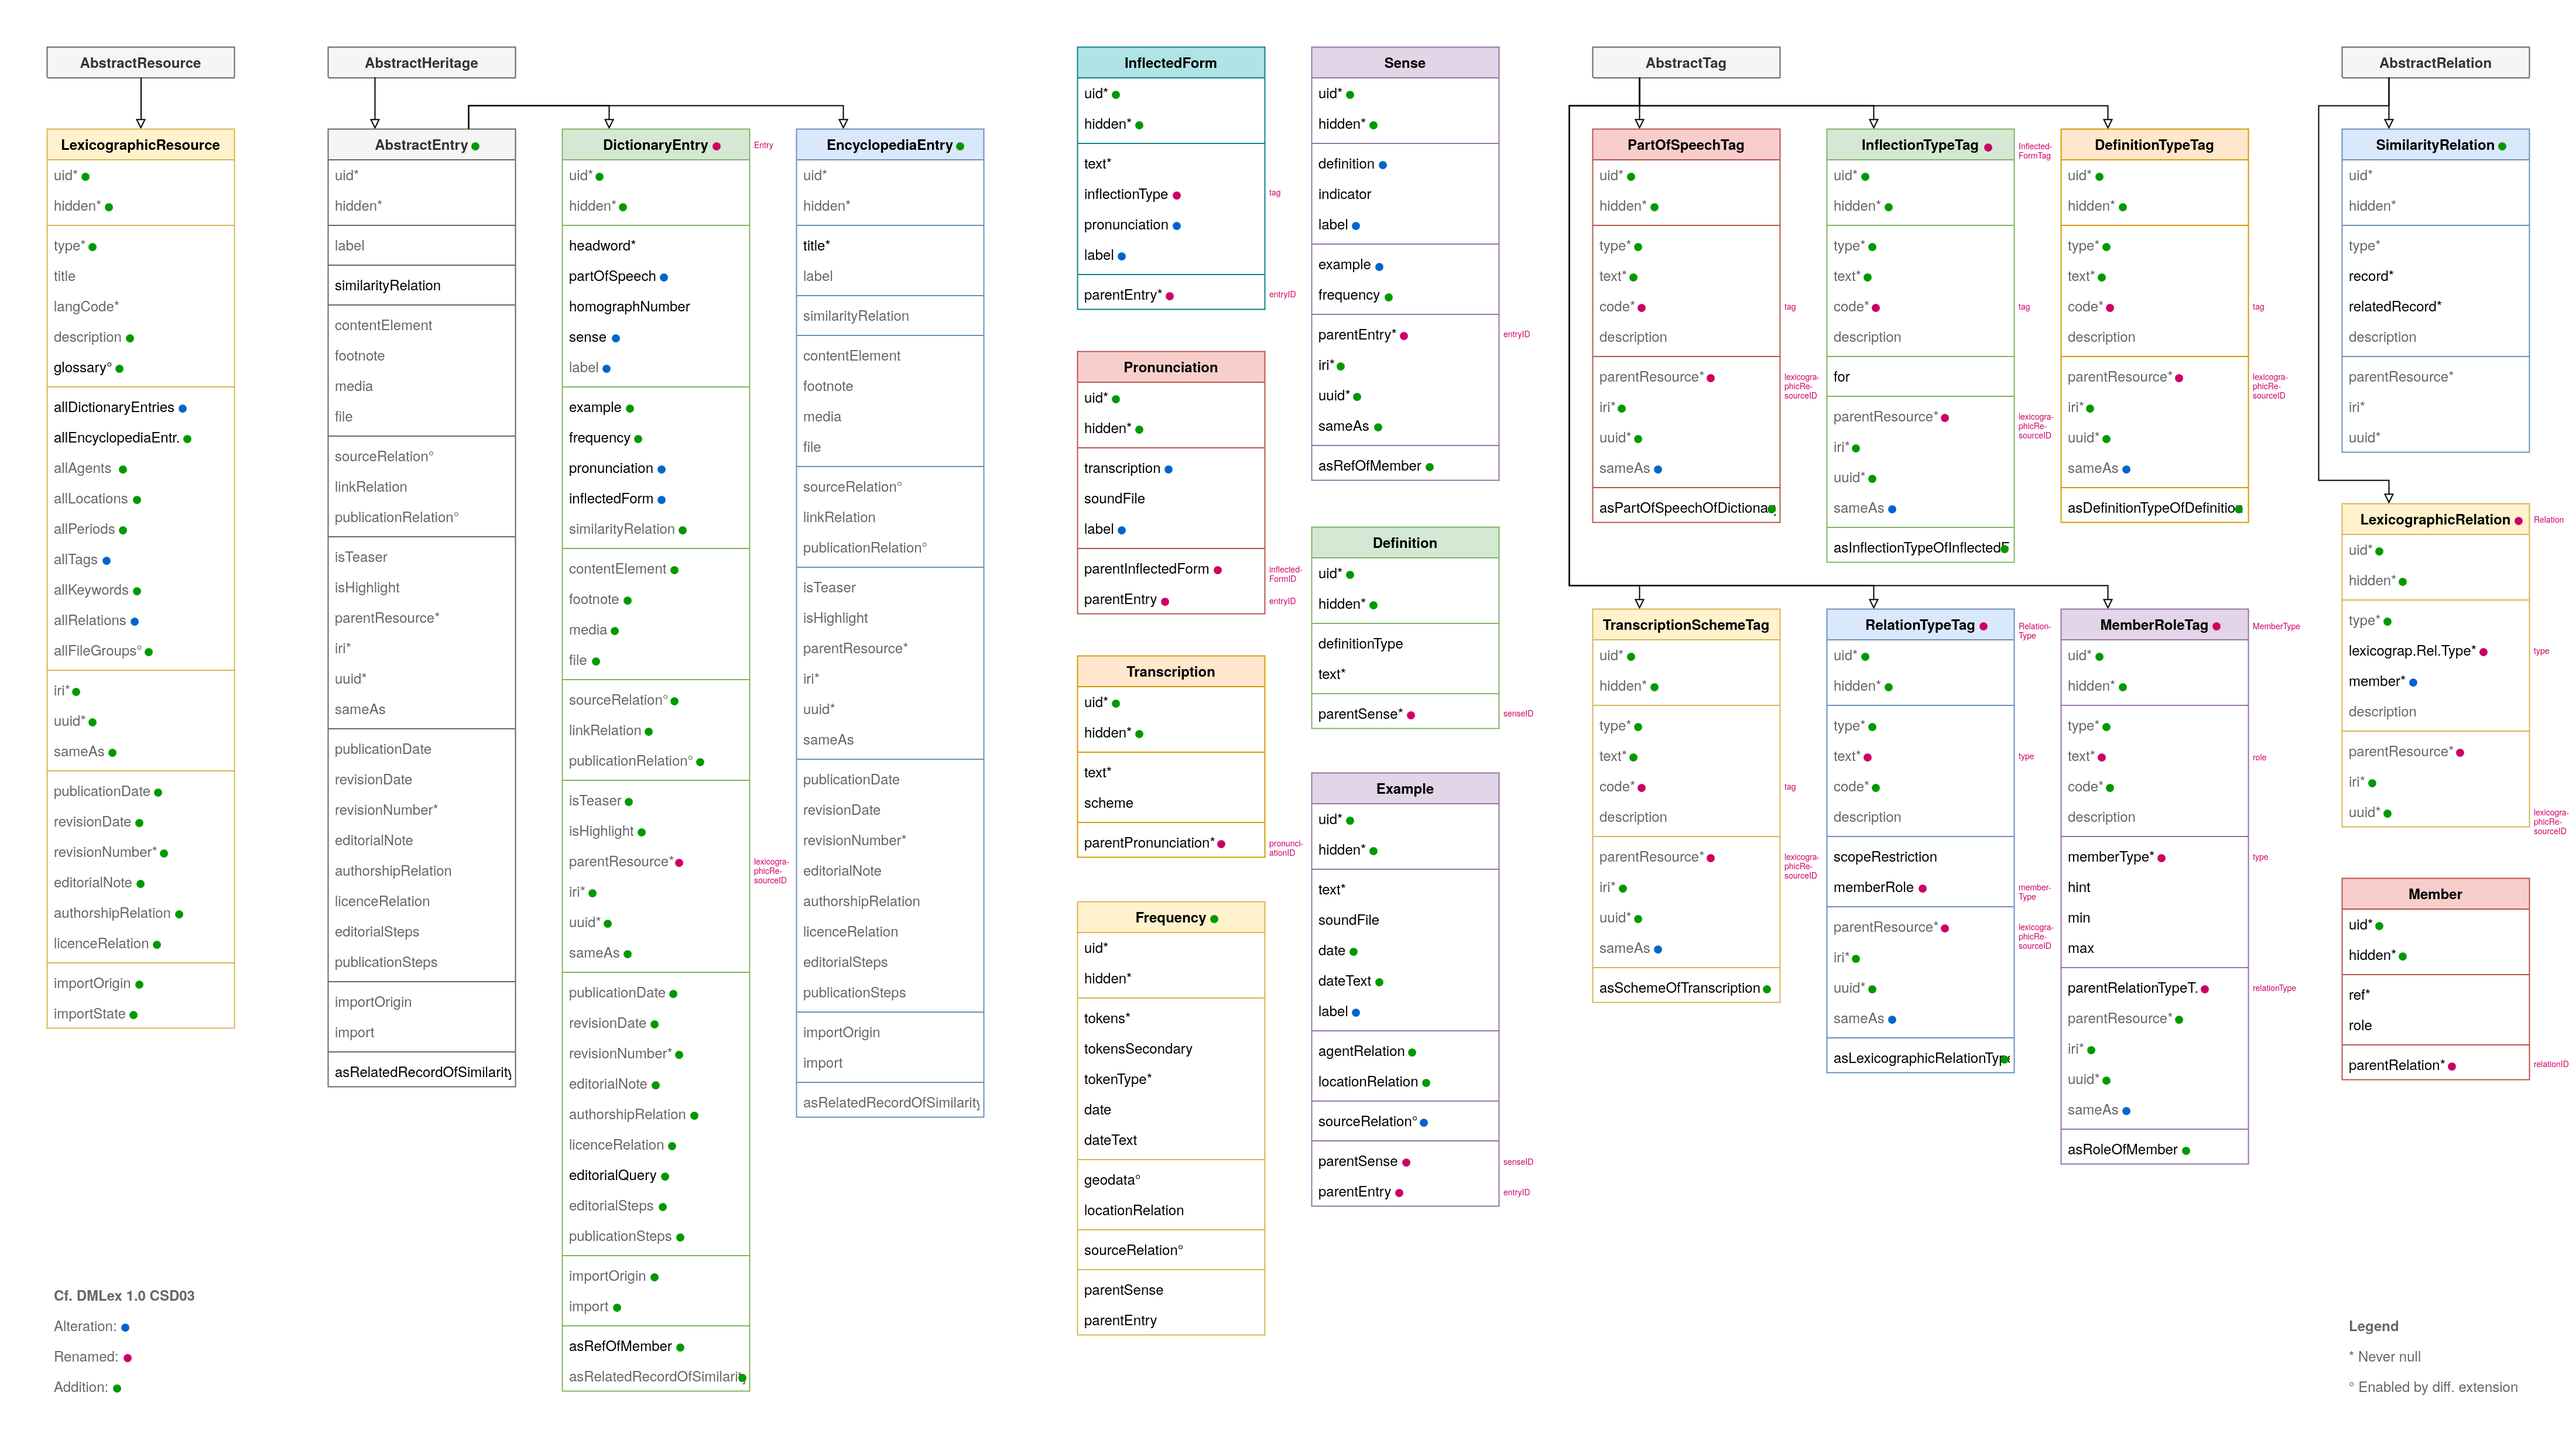
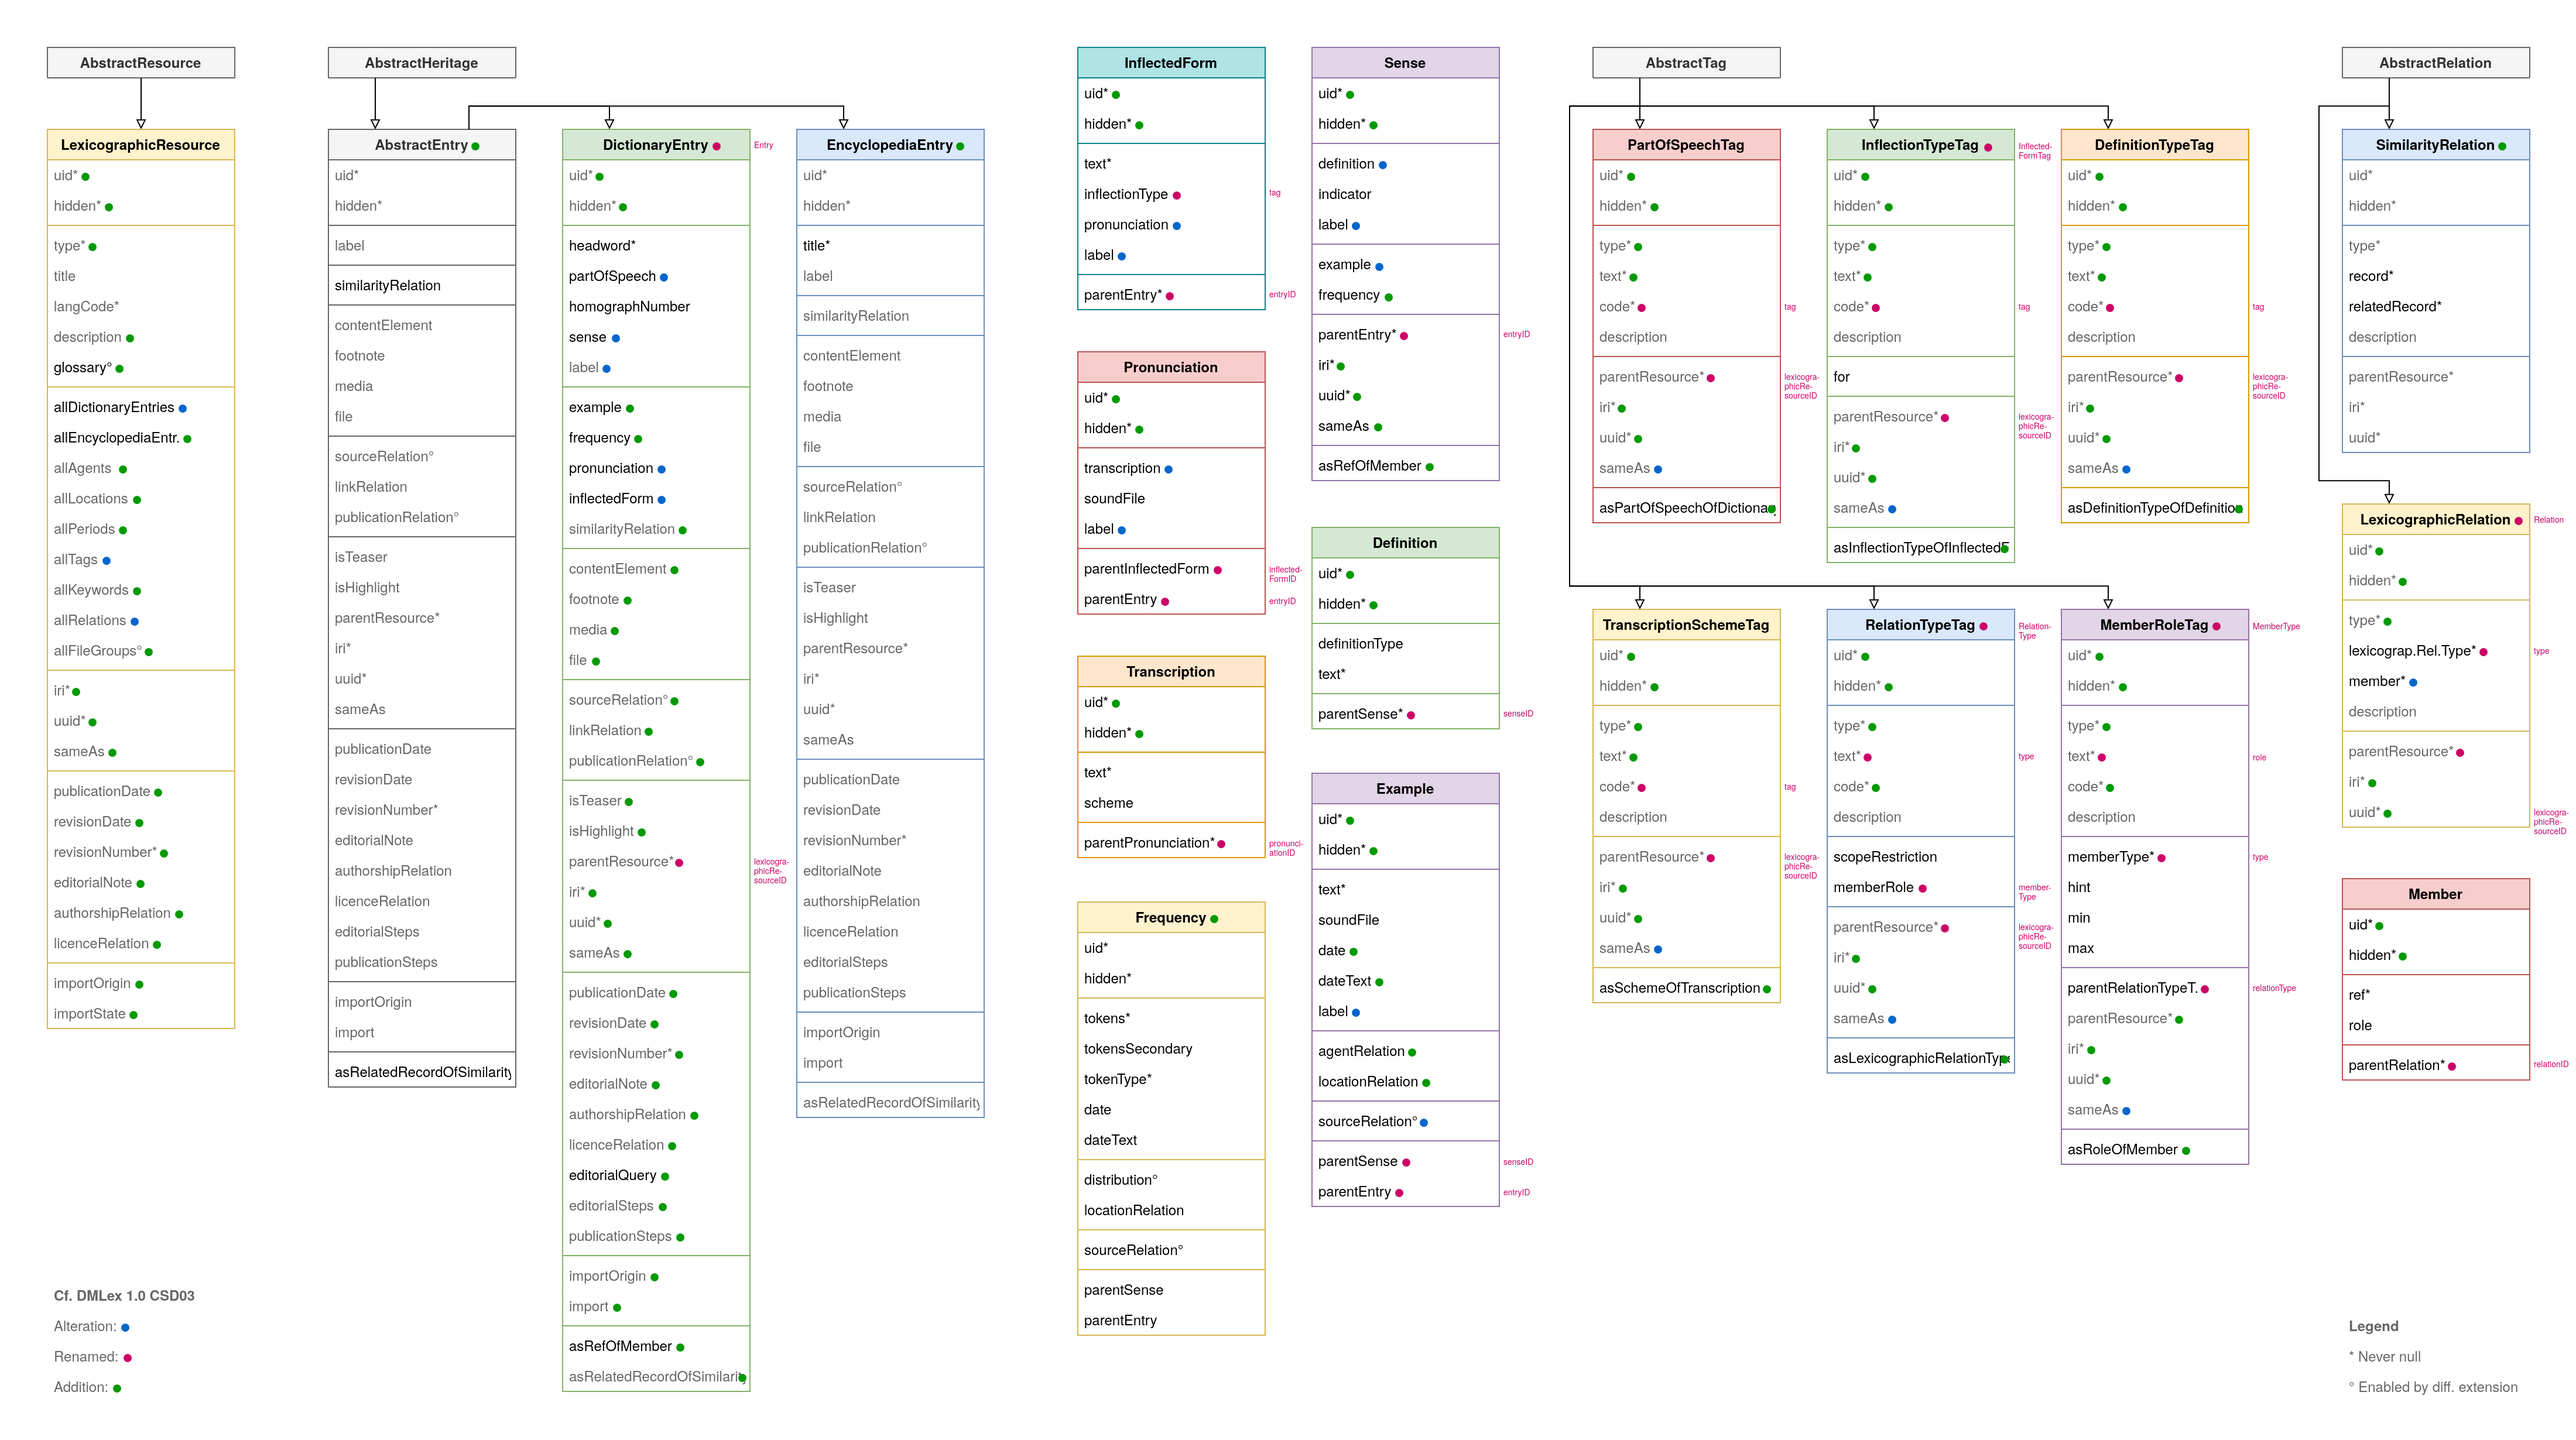
Adapt to revised geodata

diff --git a/Classes/Domain/Model/Frequency.php b/Classes/Domain/Model/Frequency.php
@@ -18,7 +18,7 @@ use TYPO3\CMS\Extbase\Persistence\ObjectStorage;
 use Digicademy\CHFBase\Domain\Model\LocationRelation;
 use Digicademy\CHFBase\Domain\Validator\StringOptionsValidator;
 use Digicademy\CHFBib\Domain\Model\SourceRelation;
-use Digicademy\CHFMap\Domain\Model\Feature;
+use Digicademy\CHFMap\Domain\Model\Distribution;
 
 defined('TYPO3') or die();
 
@@ -103,12 +103,15 @@ class Frequency extends AbstractEntity
     protected string $dateText = '';
 
     /**
-     * Feature to use as geodata of this frequency
+     * Geographic distribution of this frequency
      * 
-     * @var Feature|LazyLoadingProxy|null
+     * @var ?ObjectStorage<Distribution>
      */
     #[Lazy()]
-    protected Feature|LazyLoadingProxy|null $geodata = null;
+    #[Cascade([
+        'value' => 'remove',
+    ])]
+    protected ?ObjectStorage $distribution = null;
 
     /**
      * Location related to this record
@@ -166,6 +169,7 @@ class Frequency extends AbstractEntity
      */
     public function initializeObject(): void
     {
+        $this->distribution ??= new ObjectStorage();
         $this->locationRelation ??= new ObjectStorage();
         $this->sourceRelation ??= new ObjectStorage();
     }
@@ -291,26 +295,52 @@ class Frequency extends AbstractEntity
     }
 
     /**
-     * Get geodata
-     * 
-     * @return Feature
+     * Get distribution
+     *
+     * @return ObjectStorage<Distribution>
      */
-    public function getGeodata(): Feature
+    public function getDistribution(): ?ObjectStorage
     {
-        if ($this->geodata instanceof LazyLoadingProxy) {
-            $this->geodata->_loadRealInstance();
-        }
-        return $this->geodata;
+        return $this->distribution;
     }
 
     /**
-     * Set geodata
-     * 
-     * @param Feature
+     * Set distribution
+     *
+     * @param ObjectStorage<Distribution> $distribution
      */
-    public function setGeodata(Feature $geodata): void
+    public function setDistribution(ObjectStorage $distribution): void
     {
-        $this->geodata = $geodata;
+        $this->distribution = $distribution;
+    }
+
+    /**
+     * Add distribution
+     *
+     * @param Distribution $distribution
+     */
+    public function addDistribution(Distribution $distribution): void
+    {
+        $this->distribution?->attach($distribution);
+    }
+
+    /**
+     * Remove distribution
+     *
+     * @param Distribution $distribution
+     */
+    public function removeDistribution(Distribution $distribution): void
+    {
+        $this->distribution?->detach($distribution);
+    }
+
+    /**
+     * Remove all distributions
+     */
+    public function removeAllDistribution(): void
+    {
+        $distribution = clone $this->distribution;
+        $this->distribution->removeAll($distribution);
     }
 
     /**

diff --git a/Configuration/TCA/tx_chflex_domain_model_frequency.php b/Configuration/TCA/tx_chflex_domain_model_frequency.php
@@ -337,7 +337,7 @@ return [
     'types' => [
         '0' => [
             'showitem' => '--palette--;;tokensTokensSecondaryTokenType,--palette--;;dateDateText,
-            --div--;LLL:EXT:chf_base/Resources/Private/Language/locallang.xlf:object.generic.structured,geodata,location_relation,
+            --div--;LLL:EXT:chf_base/Resources/Private/Language/locallang.xlf:object.generic.structured,distribution,location_relation,
             --div--;LLL:EXT:chf_base/Resources/Private/Language/locallang.xlf:object.generic.bibliography,source_relation,
             --div--;LLL:EXT:chf_base/Resources/Private/Language/locallang.xlf:object.generic.placement,--palette--;;parentSenseParentEntry,',
         ],
